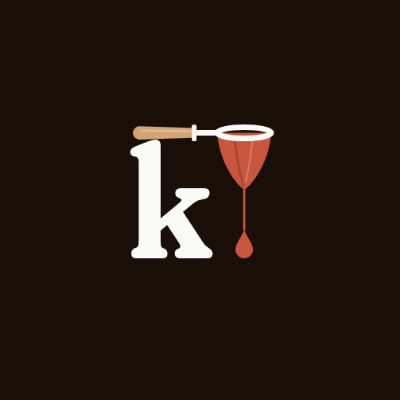
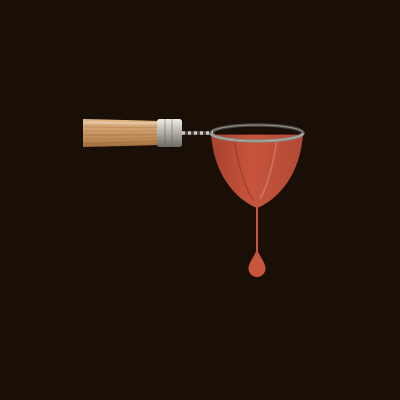
Kape.Me: KAPE burned into a realistic wooden handle
Claude-Session: https://claude.ai/code/session_01LRoy2qs7g2ihCdvFKWqSNL

Changed region(s): [[0.21, 0.3, 0.78, 0.69]]

diff --git a/kapeme/brand-kit/README.md b/kapeme/brand-kit/README.md
@@ -17,13 +17,13 @@ colour, type and video are in [`../brand.md`](../brand.md).
 
 ## Logos (`logos/`)
 
-The logo: the **k** holds a coffee sock on a turned wooden handle, and the coffee it drips is the dot in
-**kape.me**. Letters in Fraunces (soft, 640), the sock in terracotta.
+The logo: **KAPE** is burned into the wooden handle of a coffee sock. The sock drips coffee, and the drop
+is the dot before **me**. Letters in Fraunces, the sock in terracotta (Lee, 20 Oct 2026).
 
 | File | Use |
 |---|---|
 | `kapeme-logo-on-dark.png`, `kapeme-logo-on-light.png` | **Main logo**, for coffee and paper grounds |
-| `kapeme-icon-on-dark.png`, `kapeme-icon-on-light.png` | **Icon**: the k holding the sock. Profile pictures, favicon, corner bug |
+| `kapeme-icon-on-dark.png`, `kapeme-icon-on-light.png` | **Icon**: the sock on the end of its handle, dripping. Profile pictures, corner bug |
 | `*.svg` | The same, as vectors. The letters are live Fraunces text loaded from Google Fonts: use the PNGs, and have a designer outline the letters before print or packaging |
 | `concepts/` | Earlier rounds: the sock, siphon and kettle marks; the drip, pot and badge lockups; and other handles (plain wire, fused, arc) |
 

diff --git a/kapeme/README.md b/kapeme/README.md
@@ -11,8 +11,8 @@ Everything here is a draft and changes by pull request.
 Still to write (copy each from [`../_template/`](../_template/)): `product.md`, `audiences.md`,
 `messages.md`, `guardrails.md`, `key-customer.md`, `content.md`, `video/scripts.md`.
 
-Kape.Me's starter logo: the k holds a Filipino coffee sock, and the coffee it drips is the dot in
-kape.me (Lee chose the coffee sock, 19 Oct 2026). A designer should outline the letters before print.
+Kape.Me's starter logo: KAPE is burned into the wooden handle of a Filipino coffee sock, and the coffee
+it drips is the dot before me (Lee chose the coffee sock, 19 Oct 2026). A designer should outline the letters before print.
 
 ## Rules for this brand
 

diff --git a/kapeme/brand.md b/kapeme/brand.md
@@ -34,9 +34,9 @@ the dot in the text colour; on a hand-made end card, colour the dot terracotta a
 
 | File | Use in video |
 |---|---|
-| `brand-kit/social/logo-on-dark.png` | Main logo on coffee: the k holds the coffee sock, which drips the dot of kape.me |
+| `brand-kit/social/logo-on-dark.png` | Main logo on coffee: KAPE burned into the sock's wooden handle, the drip is the dot before me |
 | `brand-kit/social/logo-on-light.png` | Main logo on paper |
-| `brand-kit/logos/kapeme-icon-on-dark.png` | Icon: the k holding the sock |
+| `brand-kit/logos/kapeme-icon-on-dark.png` | Icon: the sock on its handle, dripping |
 | `brand-kit/social/profile-1024.png` | The coffee-sock mark for channel avatars |
 
 
